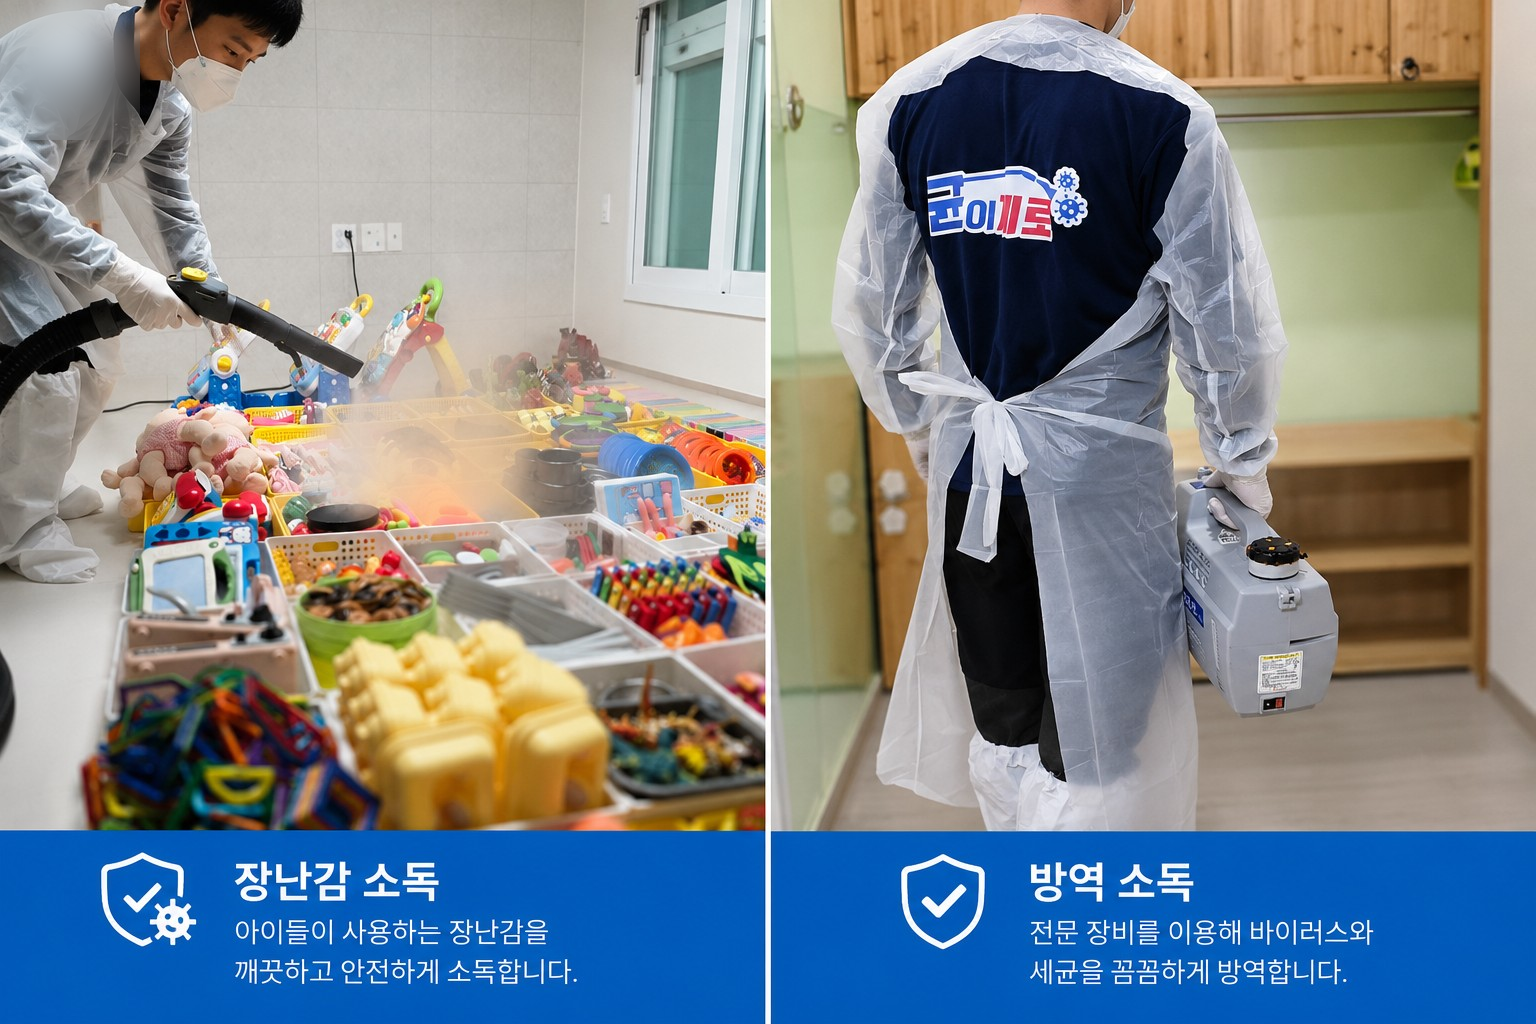
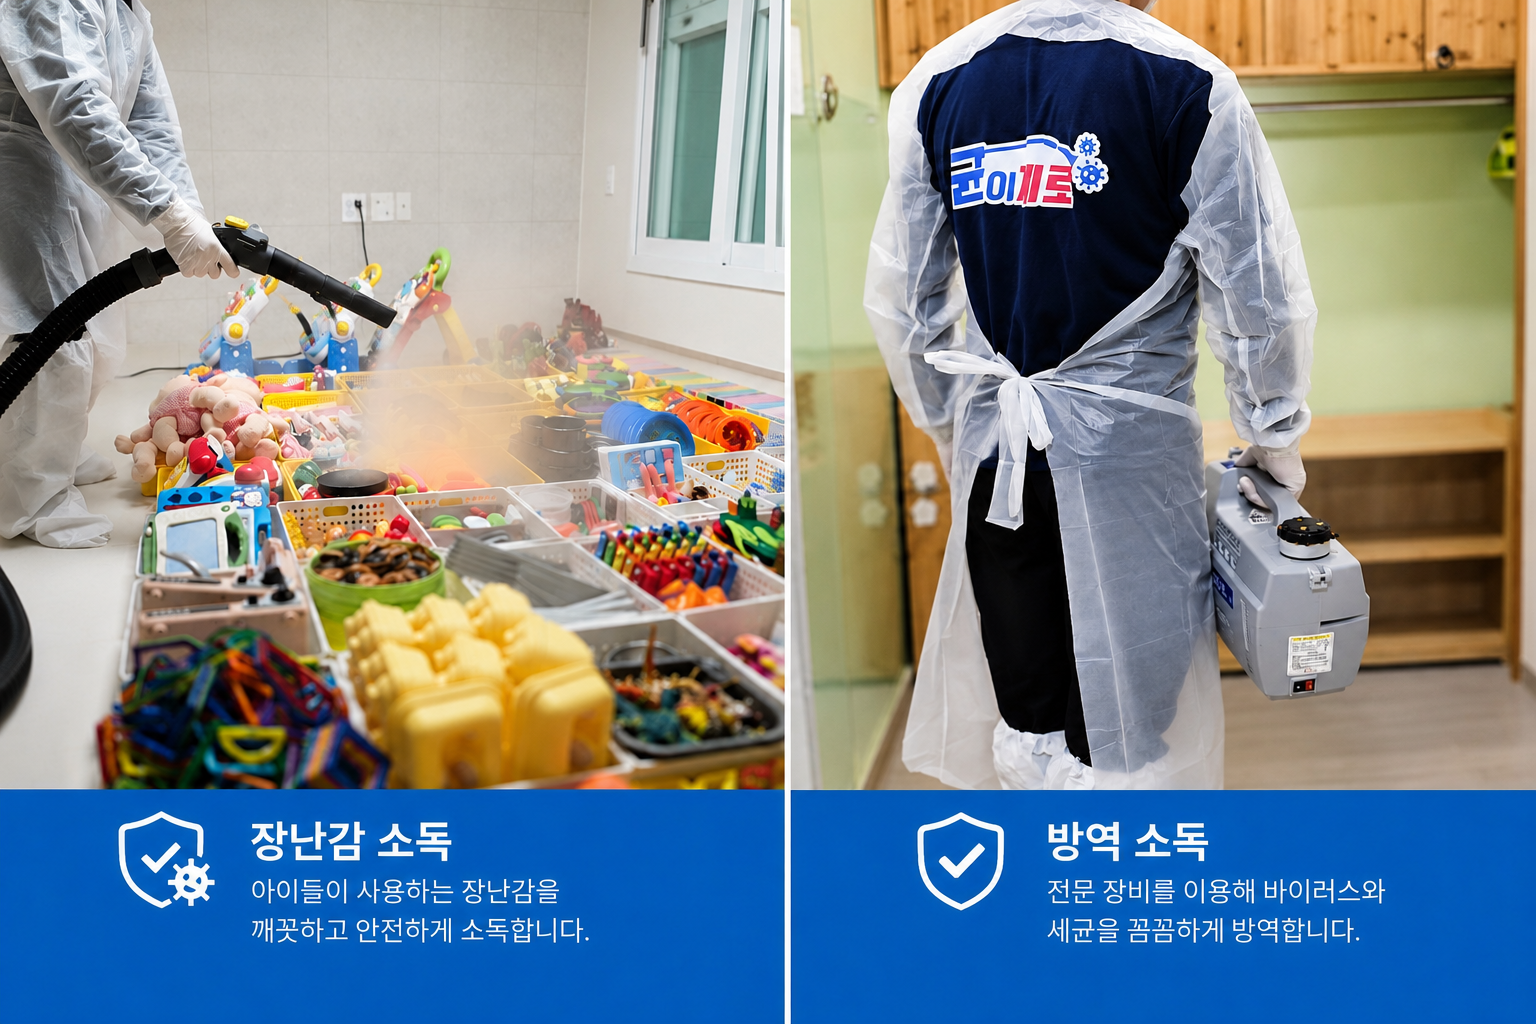
숲체험 문구 수정, 방역 사진 교체, 전체 팔레트/타이포그래피 리프레시

diff --git a/index.html b/index.html
@@ -11,19 +11,19 @@
 <link href="https://fonts.googleapis.com/css2?family=Gowun+Batang:wght@400;700&family=Nanum+Myeongjo:wght@400;700;800&family=Jua&display=swap" rel="stylesheet">
 
 <style>
-/* ============ 해바라기 들판 팔레트 ============ */
+/* ============ 라바 코랄·세이지 팔레트 ============ */
 :root {
-  --bg:        #FFFDF0;
-  --bg-soft:   #FFF8D6;
-  --bg-deeper: #FEF0A0;
-  --accent:    #F2C12E;
-  --accent-2:  #4A9E6F;
-  --accent-3:  #2E7D52;
-  --coral:     #FFB3A0;
-  --ink:       #3A2800;
-  --ink-soft:  #6B4C10;
-  --ink-mute:  #9A7A3A;
-  --line:      #EDE0B0;
+  --bg:        #FBF8F2;
+  --bg-soft:   #F2F6EE;
+  --bg-deeper: #E6EFE2;
+  --accent:    #FF9D75;
+  --accent-2:  #4FA98A;
+  --accent-3:  #2E7A63;
+  --coral:     #FFC7B0;
+  --ink:       #2E2B22;
+  --ink-soft:  #5C5847;
+  --ink-mute:  #948E78;
+  --line:      #E6E0D2;
   --card:      #FFFFFF;
 
   --font-display: "Nanum Myeongjo", "Gowun Batang", serif;
@@ -201,7 +201,7 @@ section { padding: 120px 0; position: relative; }
   background: var(--accent); flex-shrink: 0;
 }
 .hero h1 {
-  font-size: clamp(42px, 6.8vw, 88px);
+  font-size: clamp(34px, 5.4vw, 64px);
   line-height: 1.08;
   margin: 28px 0 24px;
   color: #fff;
@@ -230,7 +230,7 @@ section { padding: 120px 0; position: relative; }
   50% { transform: translateX(-50%) translateY(6px); }
 }
 @media (max-width: 760px) {
-  .hero h1 { font-size: clamp(36px, 9vw, 56px); }
+  .hero h1 { font-size: clamp(30px, 8vw, 44px); }
   .hero-ctas { flex-direction: column; }
   .hero-ctas .btn { justify-content: center; }
 }
@@ -241,7 +241,7 @@ section { padding: 120px 0; position: relative; }
   font-family: var(--font-body); font-size: 13px; color: var(--accent-3);
   font-weight: 500; letter-spacing: 0.08em; text-transform: uppercase; margin-bottom: 14px; display: block;
 }
-.sec-head h2 { font-size: clamp(30px, 3.6vw, 46px); text-wrap: balance; }
+.sec-head h2 { font-size: clamp(24px, 3vw, 36px); text-wrap: balance; }
 .sec-head p { color: var(--ink-soft); font-size: 15px; line-height: 1.75; }
 @media (max-width: 760px) { .sec-head { grid-template-columns: 1fr; align-items: flex-start; gap: 18px; margin-bottom: 36px; } }
 
@@ -334,7 +334,7 @@ section { padding: 120px 0; position: relative; }
 .director-photo { aspect-ratio: 4/5; border-radius: var(--radius-lg); overflow: hidden; max-width: 320px; }
 .director-photo img { width: 100%; height: 100%; object-fit: cover; object-position: 75% center; display: block; }
 .director-label { font-family: var(--font-body); font-size: 13px; color: var(--accent-3); font-weight: 500; letter-spacing: 0.08em; text-transform: uppercase; margin-bottom: 20px; display: block; }
-.director-text .quote { font-family: var(--font-display); font-size: 26px; line-height: 1.55; margin-bottom: 28px; letter-spacing: -0.02em; }
+.director-text .quote { font-family: var(--font-display); font-size: 21px; line-height: 1.55; margin-bottom: 28px; letter-spacing: -0.02em; }
 .director-text .body { font-size: 15.5px; color: var(--ink-soft); line-height: 1.85; margin-bottom: 28px; }
 .director-sig { font-family: var(--font-display); font-size: 18px; font-weight: 700; }
 .director-sig span { display: block; font-family: var(--font-body); font-size: 13px; font-weight: 400; color: var(--ink-mute); margin-top: 4px; }
@@ -343,7 +343,7 @@ section { padding: 120px 0; position: relative; }
 /* ============ schedule ============ */
 .schedule-wrap { display: grid; grid-template-columns: 1fr 1.4fr; gap: 64px; align-items: start; }
 .schedule-intro-label { font-family: var(--font-body); font-size: 13px; color: var(--accent-3); font-weight: 500; letter-spacing: 0.08em; text-transform: uppercase; margin-bottom: 14px; display: block; }
-.schedule-intro h2 { font-size: clamp(28px, 3.2vw, 40px); margin-bottom: 20px; }
+.schedule-intro h2 { font-size: clamp(22px, 2.6vw, 32px); margin-bottom: 20px; }
 .schedule-intro p { color: var(--ink-soft); font-size: 15px; line-height: 1.8; max-width: 340px; }
 .schedule-list { display: flex; flex-direction: column; border-top: 1px solid var(--line); }
 .schedule-item {
@@ -401,7 +401,7 @@ section { padding: 120px 0; position: relative; }
 .blob { position: absolute; pointer-events: none; filter: blur(60px); opacity: 0.5; border-radius: 50%; z-index: 0; }
 .admission-inner { position: relative; z-index: 2; }
 .admission-label { font-family: var(--font-body); font-size: 13px; color: var(--accent); font-weight: 500; letter-spacing: 0.1em; text-transform: uppercase; margin-bottom: 20px; display: block; }
-.admission h2 { color: var(--bg); font-size: clamp(28px, 3.6vw, 48px); max-width: 640px; margin-bottom: 24px; }
+.admission h2 { color: var(--bg); font-size: clamp(20px, 2.4vw, 28px); max-width: 640px; margin-bottom: 24px; }
 .admission-body { color: color-mix(in srgb, var(--bg) 72%, transparent); max-width: 560px; line-height: 1.8; margin-bottom: 40px; font-size: 16px; }
 .admission .btn-sun { background: var(--accent); color: var(--ink); }
 .admission .btn-ghost-white { color: var(--bg); border-color: rgba(255,255,255,0.35); }
@@ -582,7 +582,7 @@ footer { padding: 64px 0 40px; border-top: 1px solid var(--line); margin-top: 80
         </div>
         <div class="prog-card-body">
           <h3>초록 숲으로 숲체험</h3>
-          <p>선생님과 함께 걷고 관찰하는 바깥세상 자연 체험</p>
+          <p>숲전문가 선생님과 함께 걷고 관찰하는 바깥세상 자연체험</p>
         </div>
       </div>
       <div class="prog-card v4">
